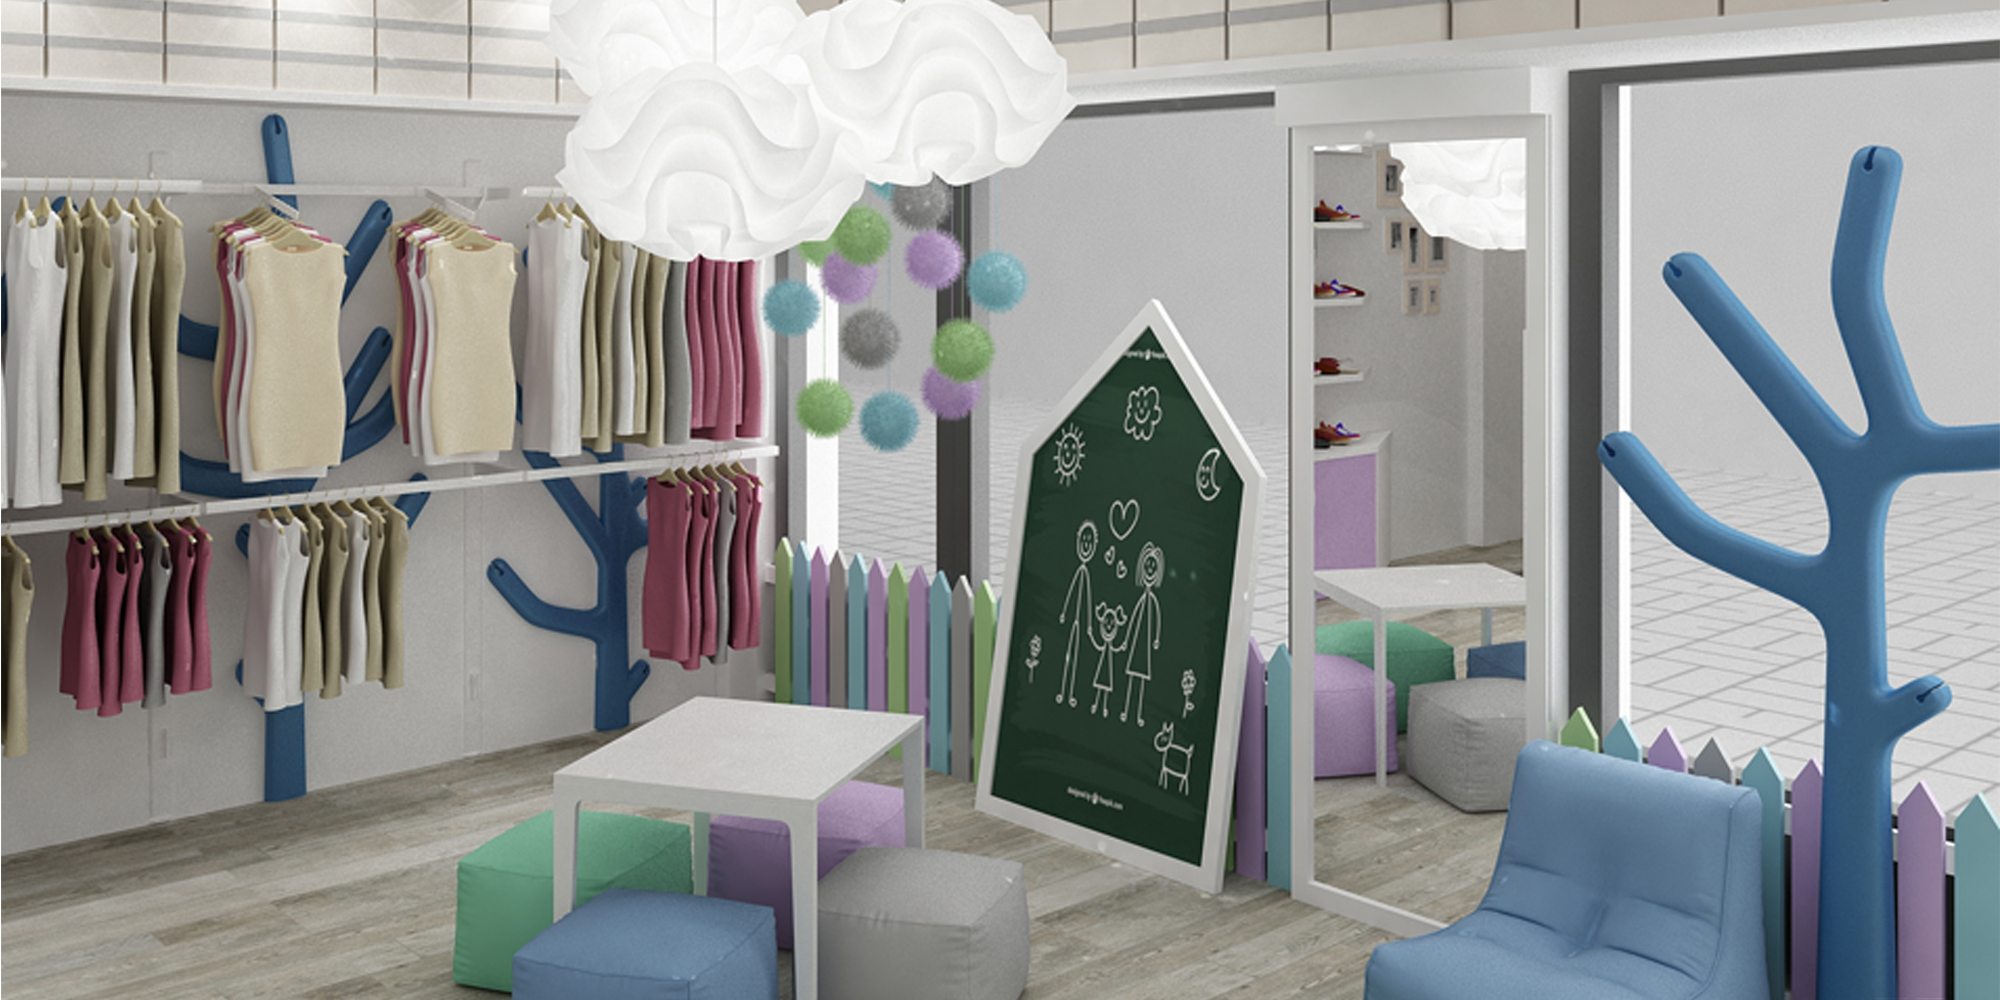
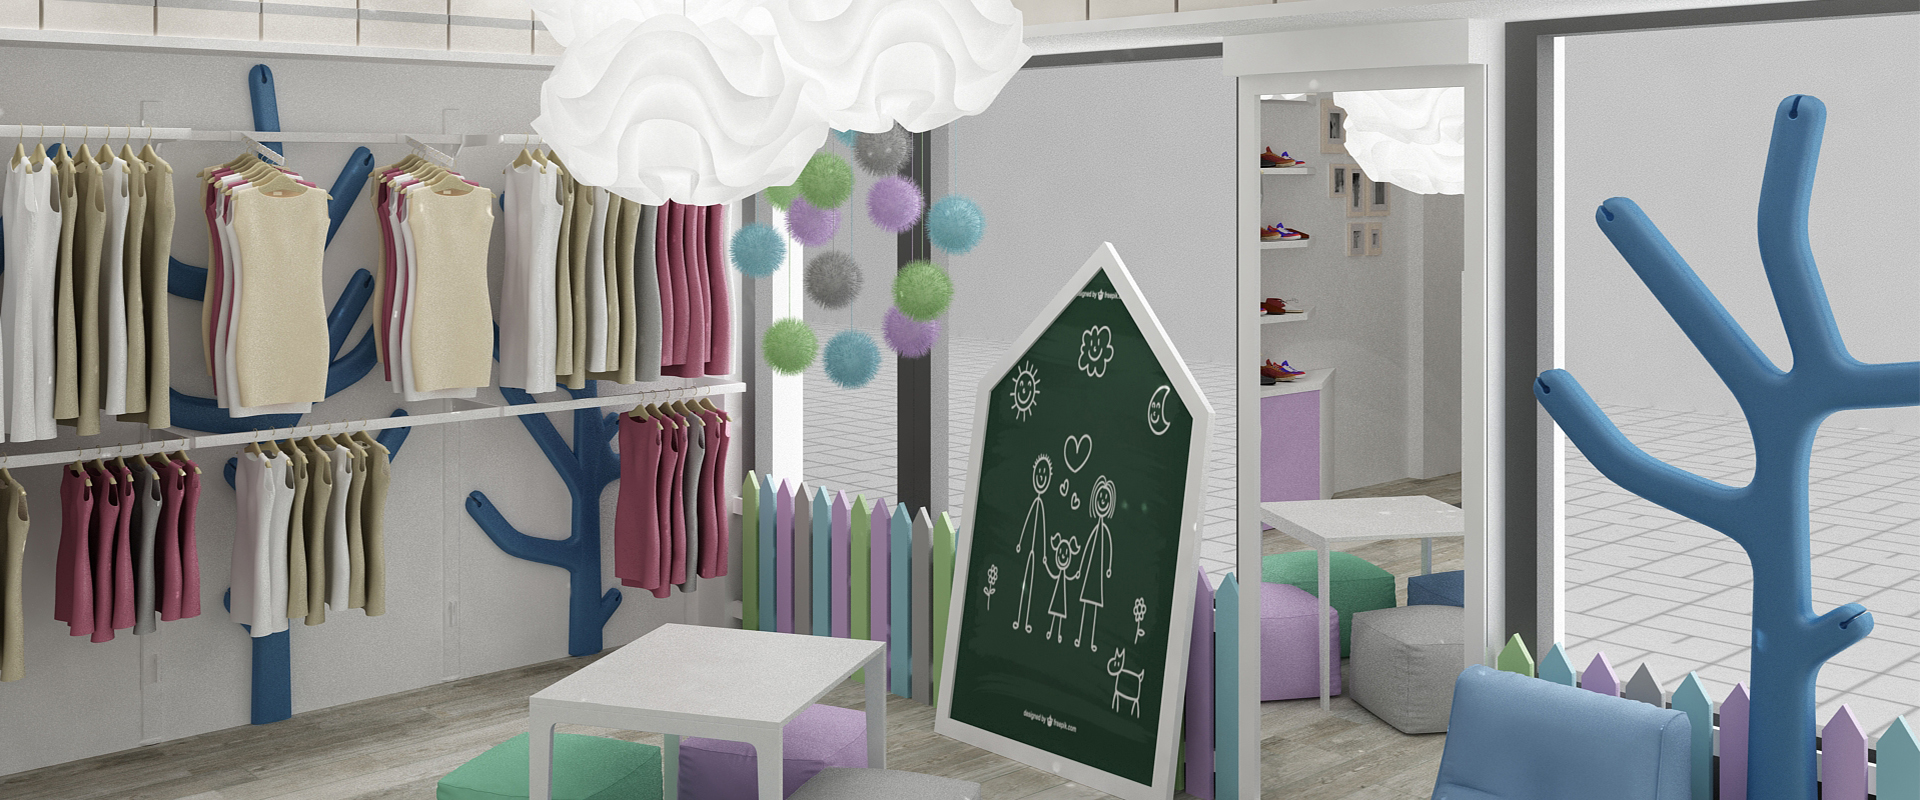
new home images

diff --git a/app/assets/stylesheets/static_pages.scss b/app/assets/stylesheets/static_pages.scss
@@ -12,7 +12,7 @@
 
 .main-image {
   width: 100%;
-  height: 700px;
+  height: 800px;
 }
 
 .rest-image {
@@ -45,7 +45,7 @@
 
 @media screen and (max-width: 1920px) {
   .main-image {
-    height: 700px;
+    height: 800px;
   }
 
   .rest-image {
@@ -63,7 +63,7 @@
 
 @media screen and (max-width: 1500px) {
   .main-image {
-    height: 550px;
+    height: 606px;
   }
 
   .rest-image {
@@ -77,7 +77,7 @@
 
 @media screen and (max-width: 1023px) {
   .main-image {
-    height: 370px;
+    height: 413px;
   }
 
   .rest-image {
@@ -91,7 +91,7 @@
 
 @media screen and (max-width: 767px) {
   .main-image {
-    height: 280px;
+    height: 310px;
   }
 
   .rest-image {
@@ -105,7 +105,7 @@
 
 @media screen and (max-width: 639px) {
   .main-image {
-    height: 230px;
+    height: 258px;
   }
 
   .rest-image {
@@ -119,7 +119,7 @@
 
 @media screen and (max-width: 479px) {
   .main-image {
-    height: 175px;
+    height: 194px;
   }
 
   .rest-image {

diff --git a/app/assets/stylesheets/saprol/style.css.scss b/app/assets/stylesheets/saprol/style.css.scss
@@ -494,7 +494,7 @@ img.alignnone {
 
 .spa-area-01 {
   background-color: #f6f6f6;
-  padding-top: 110px;
+  padding-top: 50px;
   padding-bottom: 110px;
 }
 

diff --git a/app/controllers/static_pages_controller.rb b/app/controllers/static_pages_controller.rb
@@ -10,7 +10,7 @@ class StaticPagesController < ApplicationController
   end
 
   def mail
-    MailerNotifierMailer.mail_to_me(params[:name],params[:email],params[:content]).deliver
+    MailerNotifierMailer.mail_to_me(params[:name], params[:email], params[:content]).deliver
     redirect_to contact_path, notice: "Twoja wiadomość została wysłana"
   end
 
